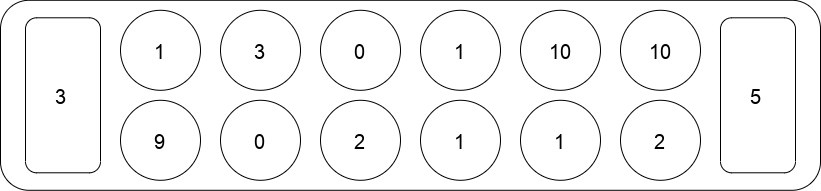
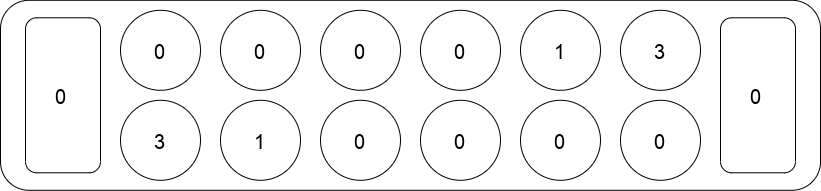
update

diff --git a/ouri/main.py b/ouri/main.py
@@ -9,17 +9,17 @@ def imprime_tabuleiro(tabuleiro):
     #draw(tabuleiro)
 
 
-def argumentos():
-    lado = ""
-    
-    while lado != "p" and lado != "s":
-        lado = input("Primeiro ou segundo: 'p' ou 's'?\n-> ")
 
-    lado = (lado == "p")
-
-    return lado
-    
 def jogada_bot(tabuleiro, lado):
+    if(lado):
+        if(max(tabuleiro[:6]) == 0):
+            print("Bot escolheu: 0")
+            return tabuleiro
+    else:
+        if(max(tabuleiro[6:]) == 0):
+            print("Bot escolheu: 0")
+            return tabuleiro
+
     prolog.retractall("estado_inicial(_)")
 
     tabuleiro_str = str(tabuleiro[2:])
@@ -77,12 +77,14 @@ if __name__ == '__main__':
     prolog.consult("base.pl")
     prolog.consult("alfabeta.pl")
 
-    lado = argumentos()
+    lado = (sys.argv[1] == "p")
 
     if lado:
         prolog.asserta("jogador(p1)")
+        prolog.consult("1.pl")
     else:
         prolog.asserta("jogador(p2)")
+        prolog.consult("2.pl")
 
     tabuleiro = [0,0,4,4,4,4,4,4,4,4,4,4,4,4]
 

diff --git a/ouri/joga.py b/ouri/joga.py
@@ -31,7 +31,7 @@ def joga(lista, pos):
     #adiciona casa vazia
     lista[pos] = 0
 
-    print(lista)
+    #print(lista)
 
     ultima = i - 1 #ultima posicao tocada
 
@@ -40,14 +40,14 @@ def joga(lista, pos):
             return lista, 0 #nao captura
         lista_aux = lista[6:] #lado do adv
         ultima -= 6
-        print(lista_aux)
-        print(ultima)
+        #print(lista_aux)
+        #print(ultima)
     else:
         if(ultima >= 6):
             return lista, 0
         lista_aux = lista[:6]
-        print(lista_aux)
-        print(ultima)
+        #print(lista_aux)
+        #print(ultima)
     
     #ciclo captura
     cur = lista_aux[ultima]
@@ -72,10 +72,10 @@ if __name__ == '__main__':
 
     tab = [2, 1, 1, 0, 0, 1, 11, 1, 0, 2, 4, 5]
 
-    print(tab)
+    #print(tab)
     x = 11
 
     lista , pontos = joga(tab, x)
 
-    print(pontos)
-    print(lista)
+    #print(pontos)
+    #print(lista)

diff --git a/ouri/tab.py b/ouri/tab.py
@@ -34,5 +34,5 @@ def draw(Tab):
 
 
 if __name__ == "__main__":
-	tab = [4,4,4,4,4,4,40,40,40,40,40,40,40,40]
+	tab = [0,0,3,1,0,0,0,0,3,1,0,0,0,0]
 	draw(tab)
